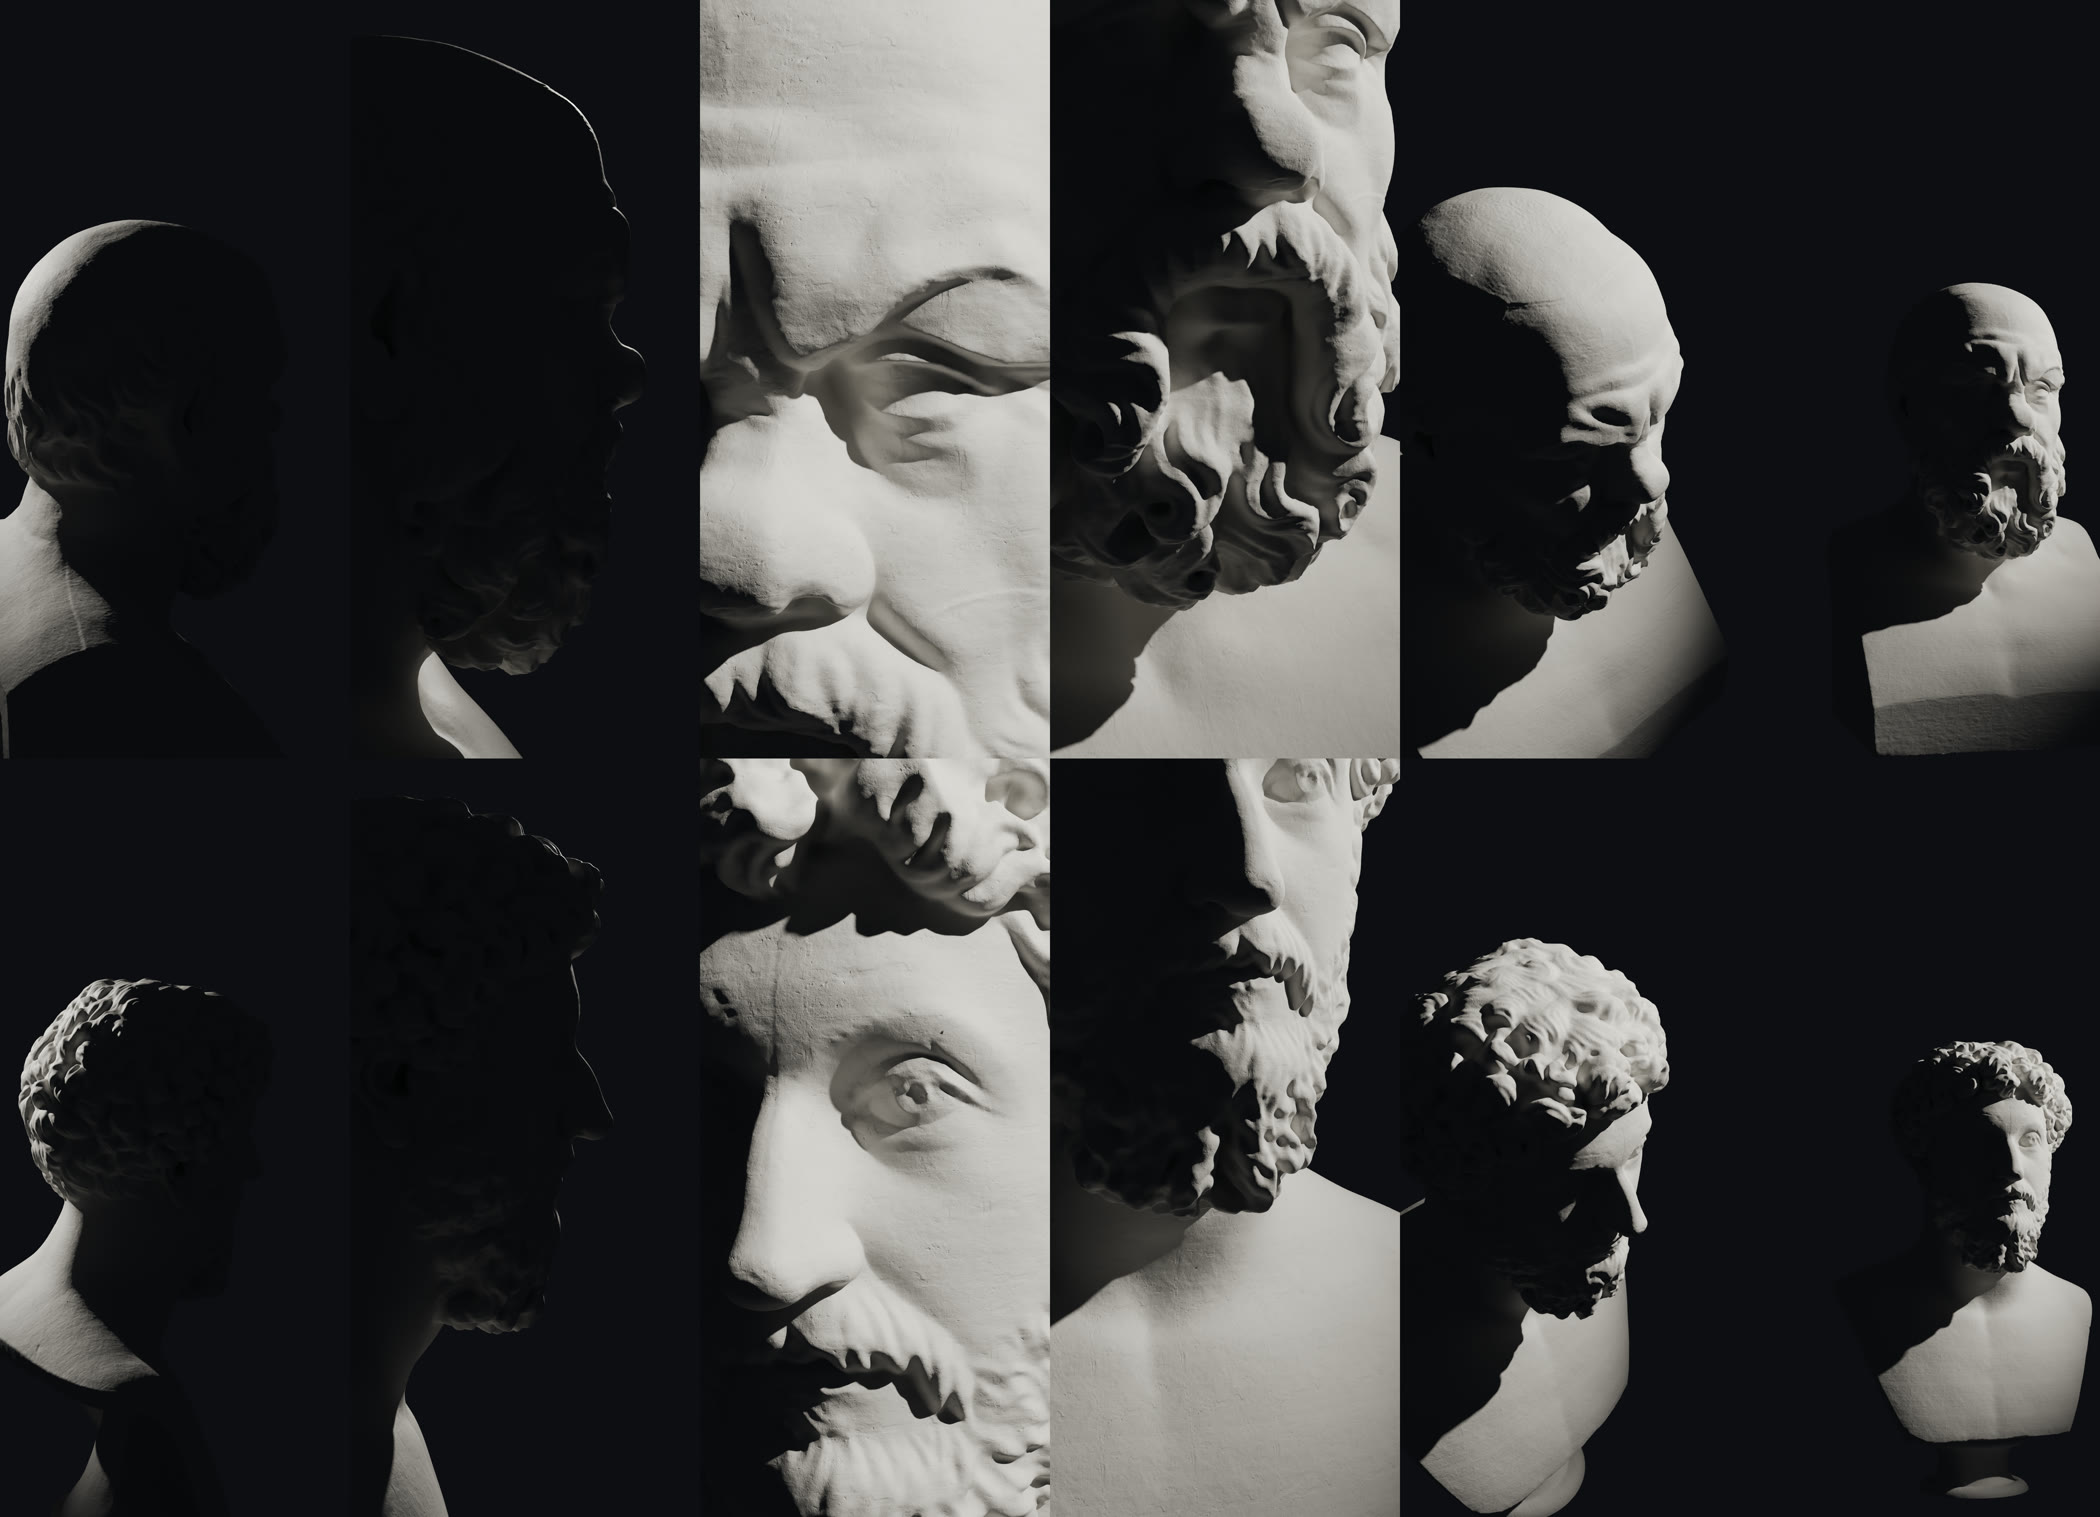
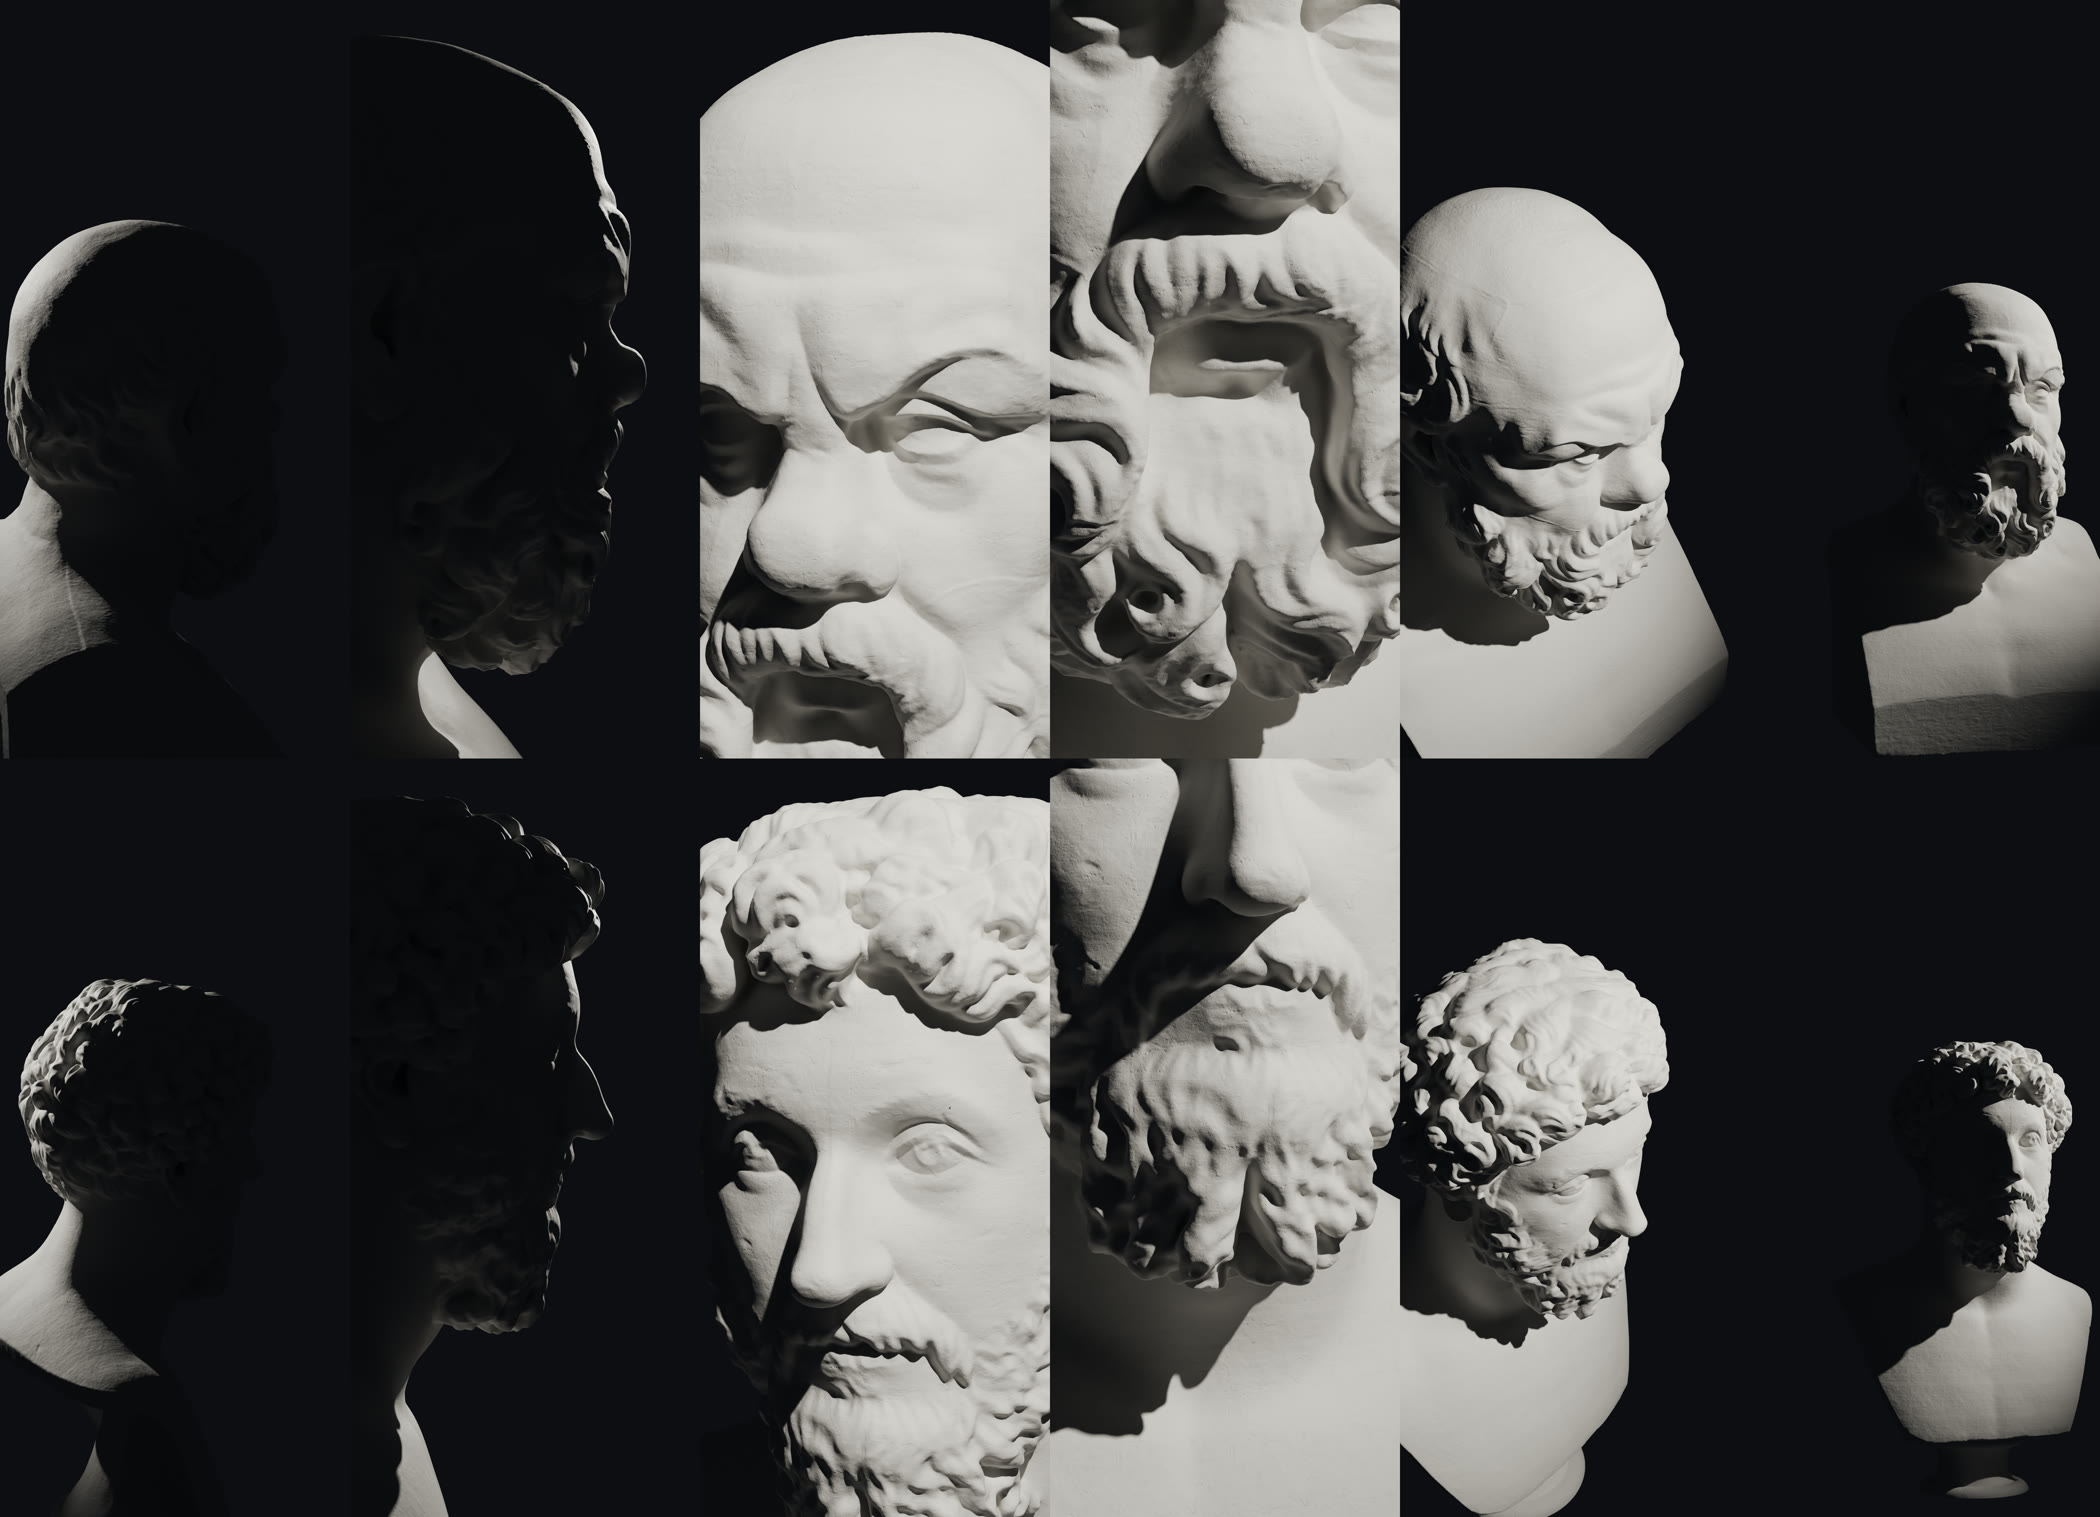
Linnanrakentaja: v14 korjaukset — Sokrateen silmä väljemmin Rembrandt-valolla, suu ja parta edestä suun korkeudelta, profiilin reunavalo vahvemmin, ¾ ylhäältä valo edestä (Marcuksen kasvot valossa); luvut v14 uudelleen

diff --git a/tools/linssit/blender/sokrates_bysti.py b/tools/linssit/blender/sokrates_bysti.py
@@ -968,14 +968,15 @@ if V14:
         (1, (-0.85, 0.30, 0.52), (0.0, -0.04, 0.38), 35),             # alkuajo ~2 s: pään siluetti takaviistosta, pimeä
         (_L(V14_INTRO['c1']) - 1, (-0.80, 0.10, 0.48), (0.0, -0.05, 0.38), 35),
         (_L(V14_INTRO['c1']), (-0.72, -0.08, 0.35), (0.0, -0.08, 0.34), 45),   # 1) profiilin ääriviiva otsasta partaan
-        (_L(V14_INTRO['c2']), (0.16, -0.43, 0.395), (0.040, -0.125, 0.378), 50), # 2) silmä ja kulmakaari silmän korkeudelta, silmä saa valoa
-        (_L(V14_INTRO['c3']), (-0.16, -0.58, 0.29), (0.0, -0.12, 0.27), 50),    # 3) suu ja parta kokonaan kuvassa, edestä
+        (_L(V14_INTRO['c2']), (0.22, -0.55, 0.425), (0.030, -0.12, 0.392), 50),   # 2) silmä, kulmakaari ja nenänvarsi; silmä ~¼ leveydestä
+        (_L(V14_INTRO['c3']), (-0.05, -0.50, 0.30), (0.0, -0.13, 0.285), 50),   # 3) suu ja parta täyttävät kuvan, suoraan edestä
         (_L(V14_INTRO['c4']), (-0.42, -0.52, 0.82), (0.0, -0.07, 0.40), 35),    # 4) ¾-kuva ylhäältä
         (V12_REM, (-0.36, -1.24, 0.24), (-0.075, -0.06, 0.39), 35),             # Rembrandt + nimi (toimii, pidetään)
     )
     V7_PEHMEAT = {1}
-    _S = {'alku': (1.0, 0.55, 0.40), 'profiili': (1.0, -0.20, 0.35), 'silma': (1.0, -0.20, 0.75), 'suu': (1.0, -0.30, 0.55),
-          'yla': (0.9, -0.45, 0.65)}   # sivuvalo muotoilee; silmä saa valoa, ei litteä
+    _S = {'alku': (1.0, 0.55, 0.40), 'profiili': (1.0, -0.45, 0.35), 'silma': (0.70, -0.70, 0.85),   # silmä: Rembrandt-suunta osuu silmämunaan
+      'suu': (0.65, -0.75, 0.60),
+          'yla': (0.30, -0.85, 0.70)}   # ¾ ylhäältä: valo edestä ylhäältä otsaan, silmään ja poskeen   # sivuvalo muotoilee; silmä saa valoa, ei litteä
     V7_VALO = ((1, _S['alku']), (_L(V14_INTRO['c1']) - 1, _S['alku']), (_L(V14_INTRO['c1']), _S['profiili']),
                (_L(V14_INTRO['c2']) - 1, _S['profiili']), (_L(V14_INTRO['c2']), _S['silma']),
                (_L(V14_INTRO['c3']) - 1, _S['silma']), (_L(V14_INTRO['c3']), _S['suu']),
